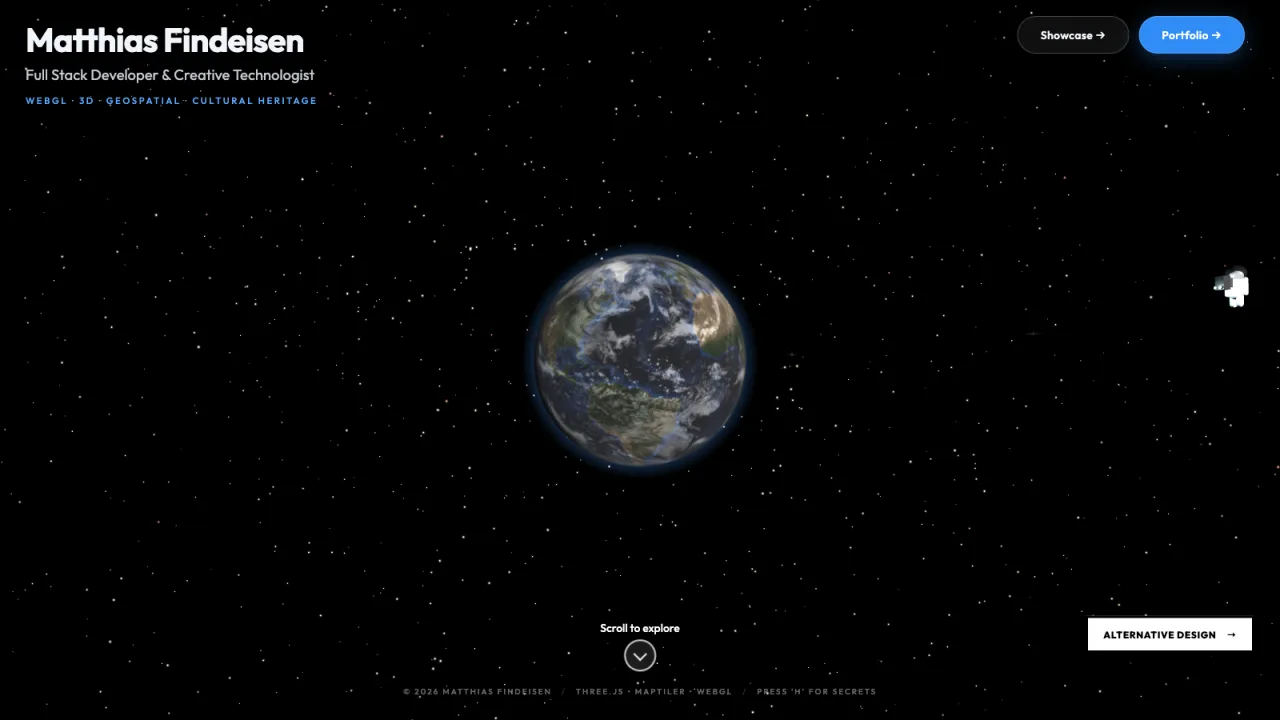
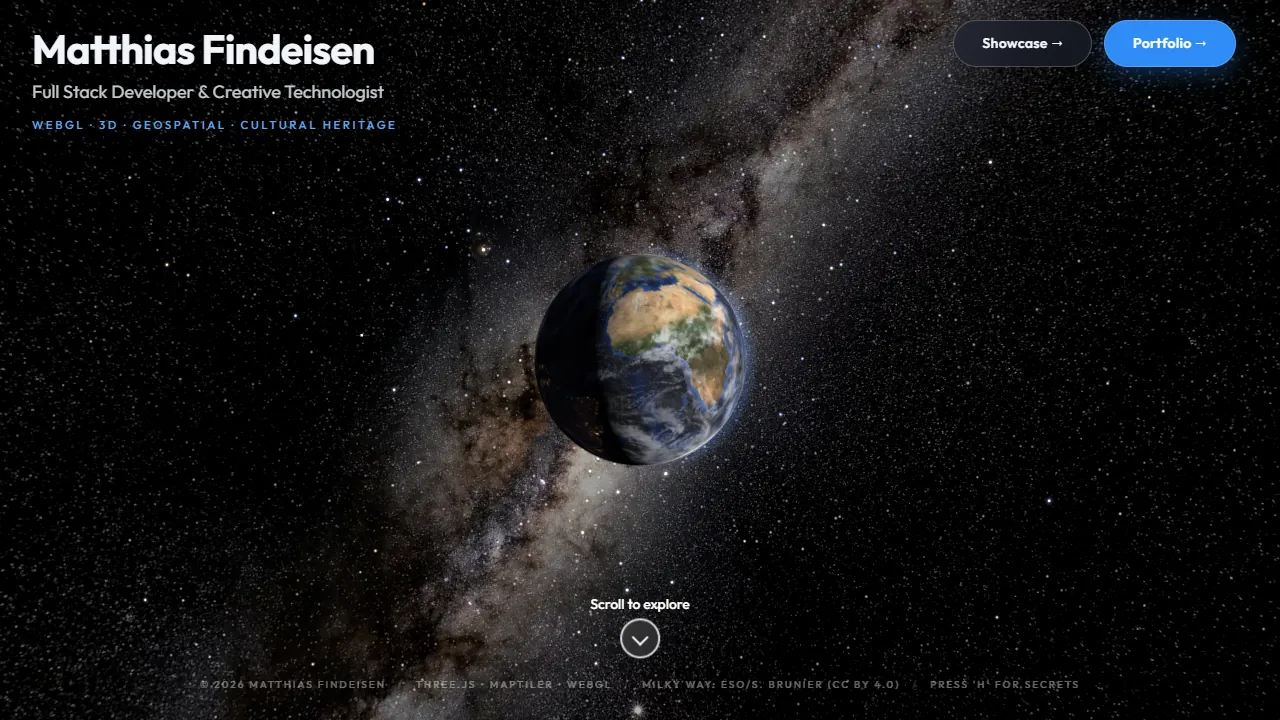
Update the showcase screenshot to match the current Earth start screen.

diff --git a/public/index.html b/public/index.html
@@ -541,7 +541,7 @@
                     <article class="project-card">
                         <figure class="project-media">
                             <img src="showcase/portfolio-start.webp" alt="Start screen of the portfolio with the rotating 3D Earth"
-                                loading="lazy" width="800" height="596">
+                                loading="lazy" width="1280" height="720">
                         </figure>
                         <div class="project-body">
                             <h3 class="experience-title">Interactive Earth Portfolio</h3>
